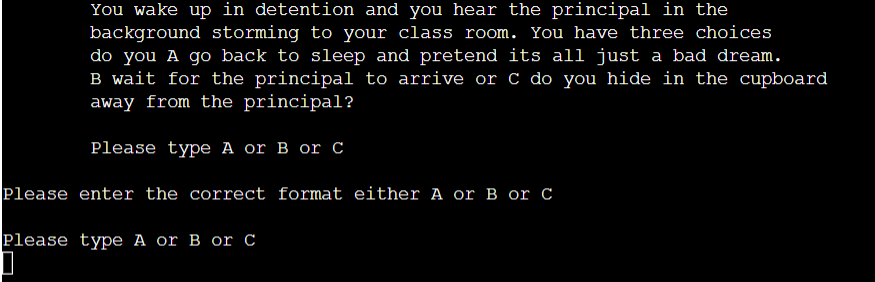
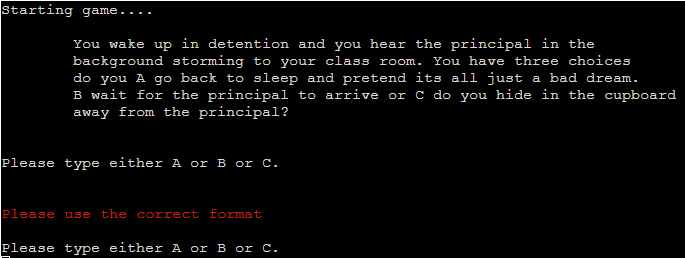
Added updated wireframes to match project

diff --git a/README.md b/README.md
@@ -126,6 +126,12 @@ would just display the whole text making this difficult to read for the user whi
 
 ![Intro message](docs/intro-msg.png)
 
+### Wrong Format Intro Message
+
+* This will be shown if the user doesn't enter the correct format. An error message will appear asking the user to enter the correct input while the statement will repeat asking the user to enter either A to start the game or B to view the instrctions.
+
+![Wrong Format Intro Message](docs/wrong-format-intro.png)
+
 ### Instructions
 
 * This element will teach the user how  to play the game informing them the rules of the game, teaching them about how to answer the different scenarios that are presented to the user. The instructions will also contain valuable information for the user such as informing the user they are able to leave the game at any time by typing exit. This will all be showcased in the instructions element, making sure the user does not get frustrated and understands the game before starting.
